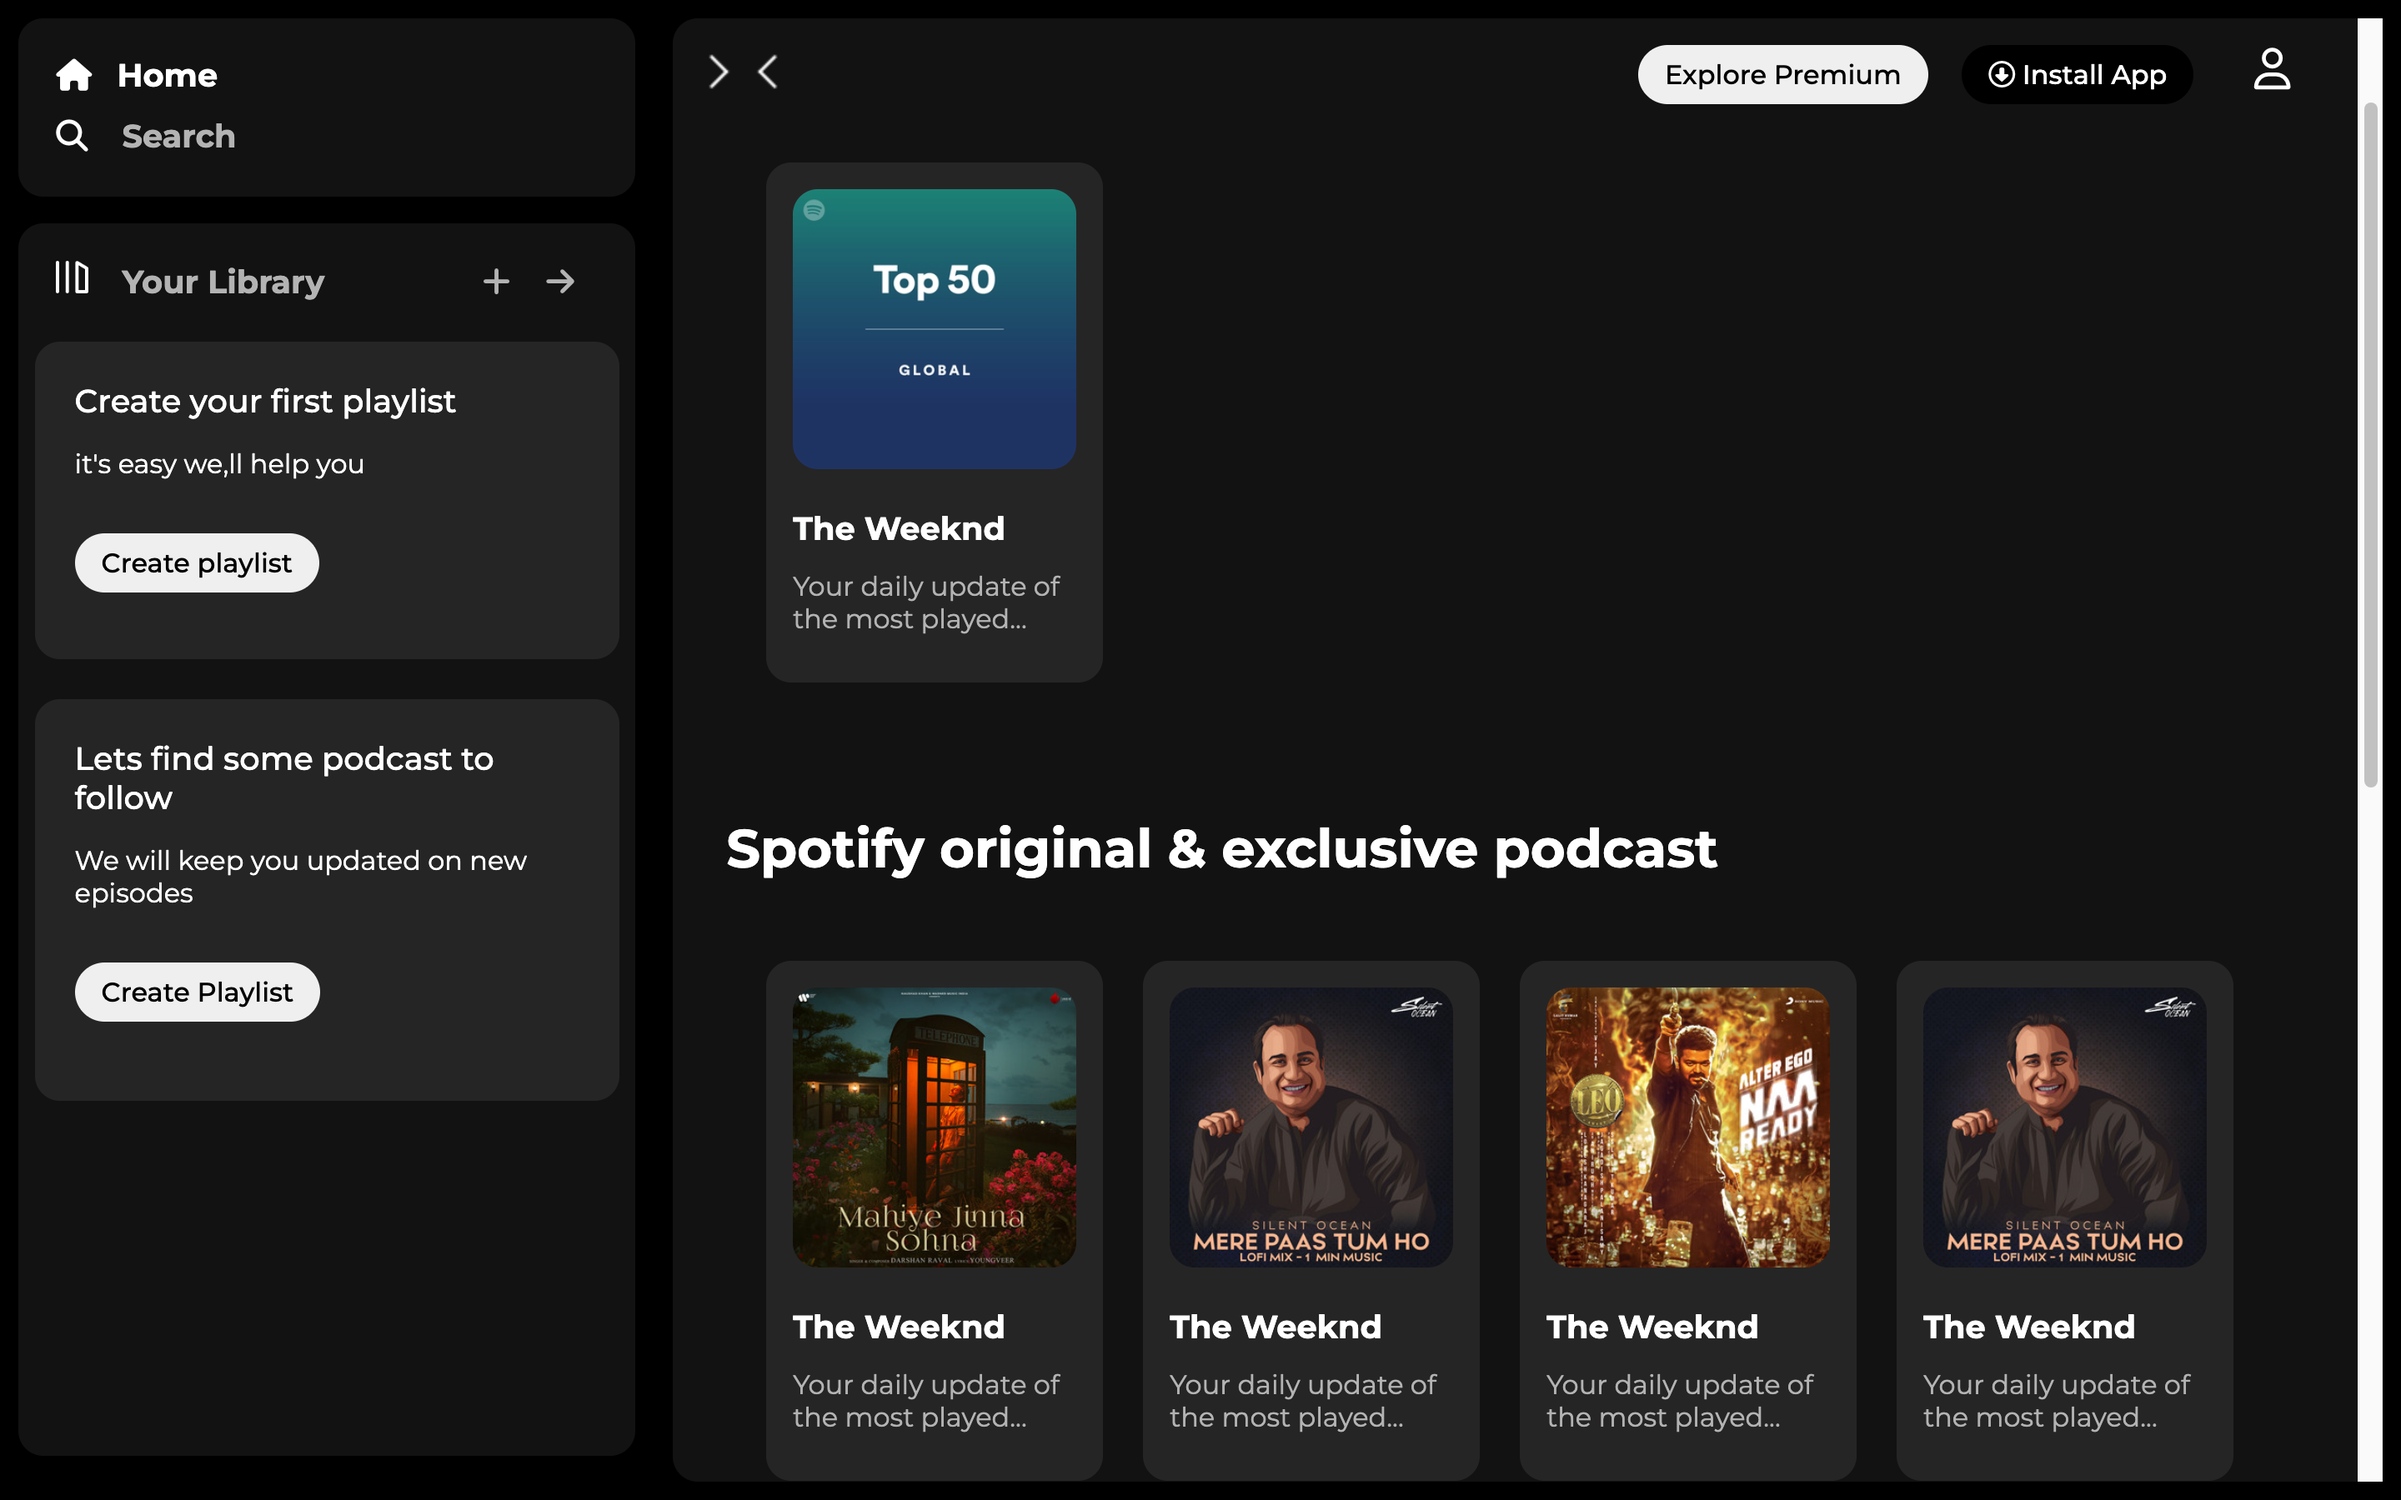
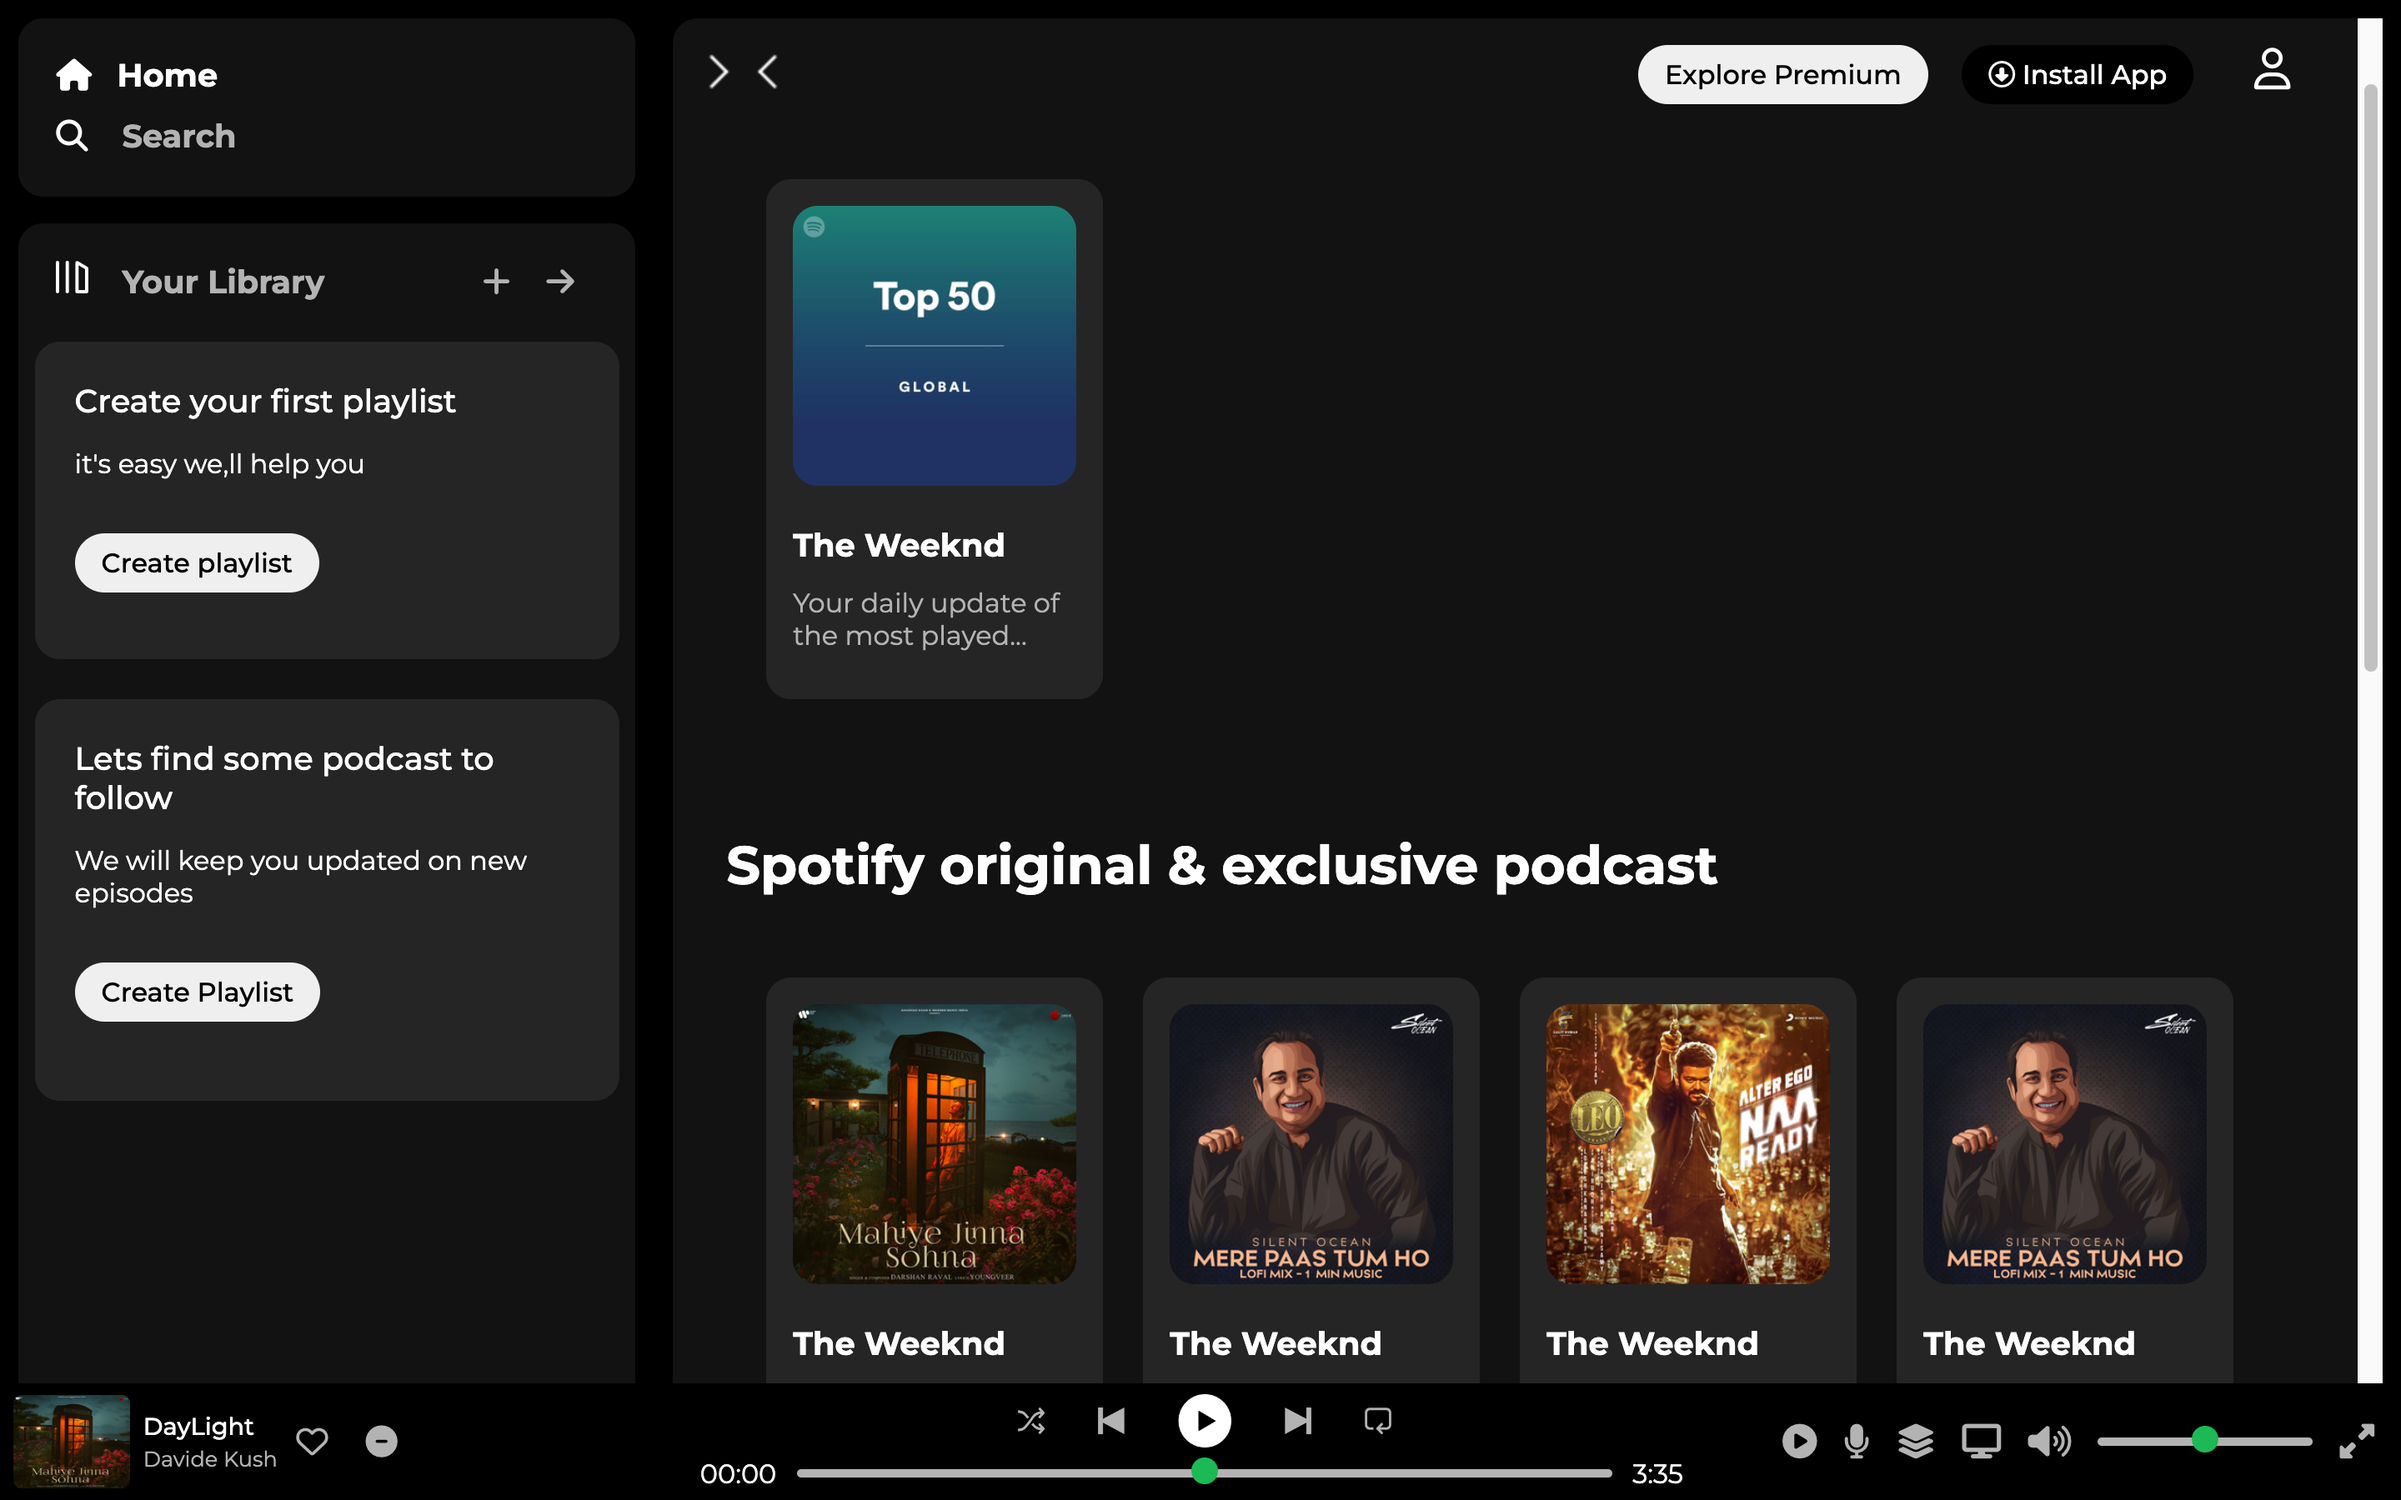
Completed tne Footer

diff --git a/style.css b/style.css
@@ -165,3 +165,142 @@ section h2{
     margin: 0.5rem 0;
     color: #b3b3b3;
 }
+
+.footer{
+    display: flex;
+    align-items: center;
+    height: 300px;
+    justify-content: space-evenly;
+    align-items: center;
+}
+.line{
+    width: 90%;
+    height: 40%;
+    border-top: 2px solid white;
+    opacity: 0.4;
+}
+/* Player Left-Section */ 
+.player{
+    display: flex;
+    background-color: #000;
+    height: 70px;
+}
+.left-sec{
+    display: flex;
+    align-items: center;
+    height: 100%;
+    width: 25%;
+    padding: 0 0.5rem;
+}
+.left-sec img{
+    height: 80%;
+    width: 20%;
+    border-radius: 5px;
+    margin-right: 0.5rem;
+}
+.song h4{
+    font-size: 0.9rem;
+    font-weight: 500;
+    margin: 0.2rem 0;
+}
+.song h6{
+    font-size: 0.8rem;
+    font-weight: 400;
+    margin: 0.2rem 0;
+    color: #b3b3b3;
+}
+.left-sec i{
+    font-size: 1.2rem;
+    margin: 0 0.7rem;
+    color: #b3b3b3;
+}
+/* Player-Middle-Section */
+
+.middle-sec{
+    height:100%;
+    width: 50%;
+}
+.tools{
+    display: flex;
+    justify-content: center;
+    align-items: center;
+    height: 50%;
+    width: 100%;
+    padding:.3rem .5rem;
+}
+.middle-sec img{
+    height: 1rem;
+    width: 1rem;
+    margin:0 1rem;
+    opacity: 0.7;
+}
+#play{
+    height: 2rem;
+    width: 2rem;
+    margin:0 1rem;
+    opacity: 1;
+}
+.middle-sec img:hover{
+    opacity: 1;
+}
+.scroll{
+    text-align: center;
+}
+.scroll .progress{
+    width: 70%;
+    appearance: none;
+    background: transparent;
+    cursor: pointer;
+    margin: 0 .5rem;
+}
+.scroll .progress::-webkit-slider-runnable-track{
+    height: 0.3rem;
+    margin-top: -12px;
+    background-color: #b3b3b3;
+    border-radius: 100px;
+}
+.scroll .progress::-webkit-slider-thumb{
+    appearance: none;
+    width: 1rem;
+    height: 1rem;
+    background-color: #1db954;
+    border-radius: 100px;
+    margin-top: -7px;
+}
+/* Right-Section */
+.right-sec{
+    display: flex;
+    align-items: center;
+    justify-content: end;
+    height: 100%;
+    width: 25%;
+    padding: 0 0.5rem;
+}
+.right-sec i{
+    font-size: 1.3rem;
+    font-weight:600;
+    margin: 0 0.5rem;
+    opacity: 0.7;
+}
+.right-sec i:hover{
+    opacity: 1;
+}
+.right-sec .progress{
+    appearance: none;
+    background: transparent;
+    cursor: pointer;
+    margin: 0 .5rem;
+}
+.right-sec .progress::-webkit-slider-runnable-track{
+    height: 0.3rem;
+    background-color: #b3b3b3;
+    border-radius: 100px;
+}
+.right-sec .progress::-webkit-slider-thumb{
+    appearance: none;
+    width: 1rem;
+    height: 1rem;
+    background-color: #1db954;
+    border-radius: 100px;
+    margin-top: -7px;
+}

diff --git a/index.html b/index.html
@@ -134,8 +134,44 @@
                     </div>
                 </div>
             </section>
+            <div class="footer">
+                <div class="line"></div>
+            </div>
         </div>
-        <div class="player">player</div>
+        <div class="player">
+            <div class="left-sec">
+                <img src="assets/card2img.jpeg" >
+                <div class="song">
+                    <h4>DayLight</h4>
+                    <h6>Davide Kush</h6>
+                </div>
+                <i class="fa-regular fa-heart"></i>
+                <i class="fa-solid fa-circle-minus"></i>
+            </div>
+            <div class="middle-sec">
+                <div class="tools">
+                    <img src="assets/player_icon1.png" >
+                    <img src="assets/player_icon2.png" >
+                    <img id="play" src="assets/player_icon3.png" >
+                    <img src="assets/player_icon4.png" >
+                    <img src="assets/player_icon5.png" >
+                </div>
+                <div class="scroll">
+                    <span class="current-t">00:00</span>
+                    <input type="range" min="0" max="100" step="1" class="progress">
+                    <span class="total-t">3:35</span>
+                </div>
+            </div>
+            <div class="right-sec">
+                    <i class="fa-regular fa-circle-play"></i>
+                    <i class="fa-solid fa-microphone"></i>
+                    <i class="fa-solid fa-layer-group"></i>
+                    <i class="fa-solid fa-display"></i>
+                    <i class="fa-regular fa-volume-high"></i>
+                    <input type="range" min="0" max="100" step="1" class="progress">
+                    <i class="fa-solid fa-up-right-and-down-left-from-center"></i>
+            </div>
+        </div>
     </main>
     <script src="https://cdn.jsdelivr.net/npm/bootstrap@5.3.2/dist/js/bootstrap.bundle.min.js"></script>
 </body>
